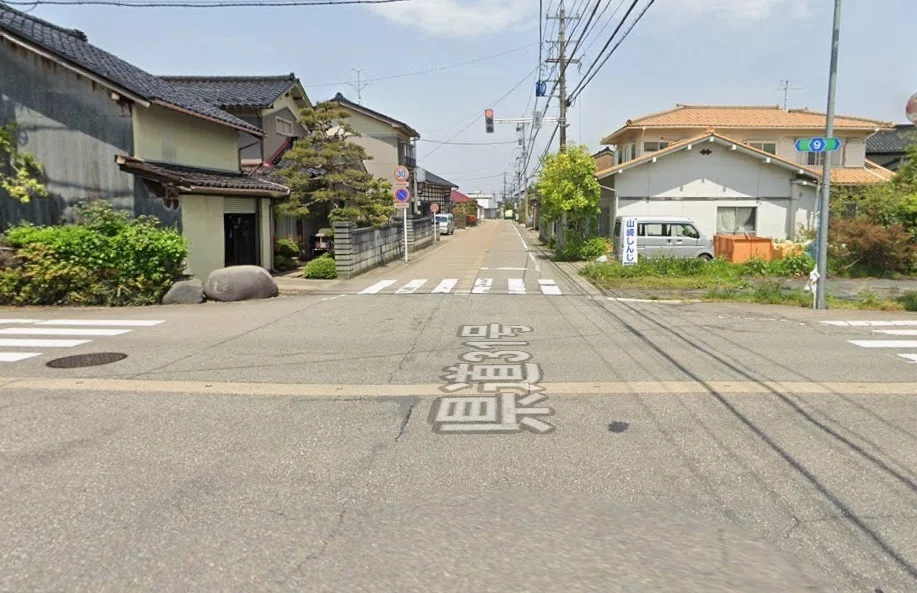
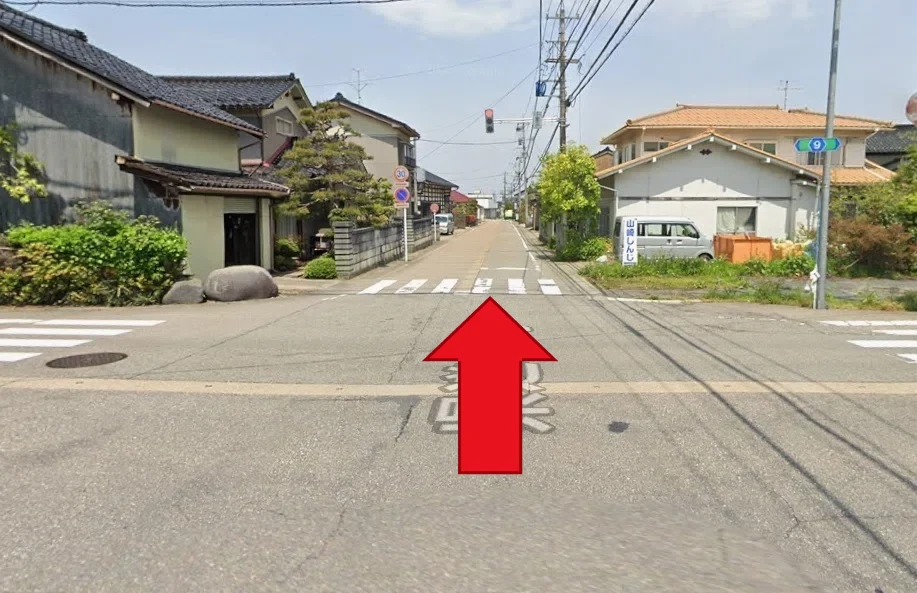
ルート案内1の写真に直進を示す赤矢印を追加

Changed region(s): [[0.458, 0.4857, 0.6107, 0.8196]]

diff --git a/index.html b/index.html
@@ -1242,7 +1242,7 @@
       <h3 class="a-h3" style="color:var(--green-dark);margin-bottom:14px;">✅ こちらへどうぞ</h3>
       <div style="display:grid;grid-template-columns:repeat(auto-fill,minmax(360px,1fr));gap:16px;">
         <div class="r-img-card">
-          <img src="route1.webp" alt="ルート案内1" loading="lazy" style="width:100%;border-radius:8px;display:block;" />
+          <img src="route1.webp?v=2" alt="ルート案内1" loading="lazy" style="width:100%;border-radius:8px;display:block;" />
           <p>🚗 黒河の交差点から来られる場合、北方向へ300m程直進してください。一旦狭い道になりますが、そのまま直進してください。</p>
         </div>
         <div class="r-img-card">

diff --git a/route.html b/route.html
@@ -97,7 +97,7 @@
   <h2 class="ok">✅ こちらへどうぞ</h2>
   <div class="grid">
     <div class="card">
-      <img src="route1.webp" alt="ルート案内1" />
+      <img src="route1.webp?v=2" alt="ルート案内1" />
       <p>🚗 黒河の交差点から来られる場合、北方向へ300m程直進してください。一旦狭い道になりますが、そのまま直進してください。</p>
     </div>
     <div class="card">
